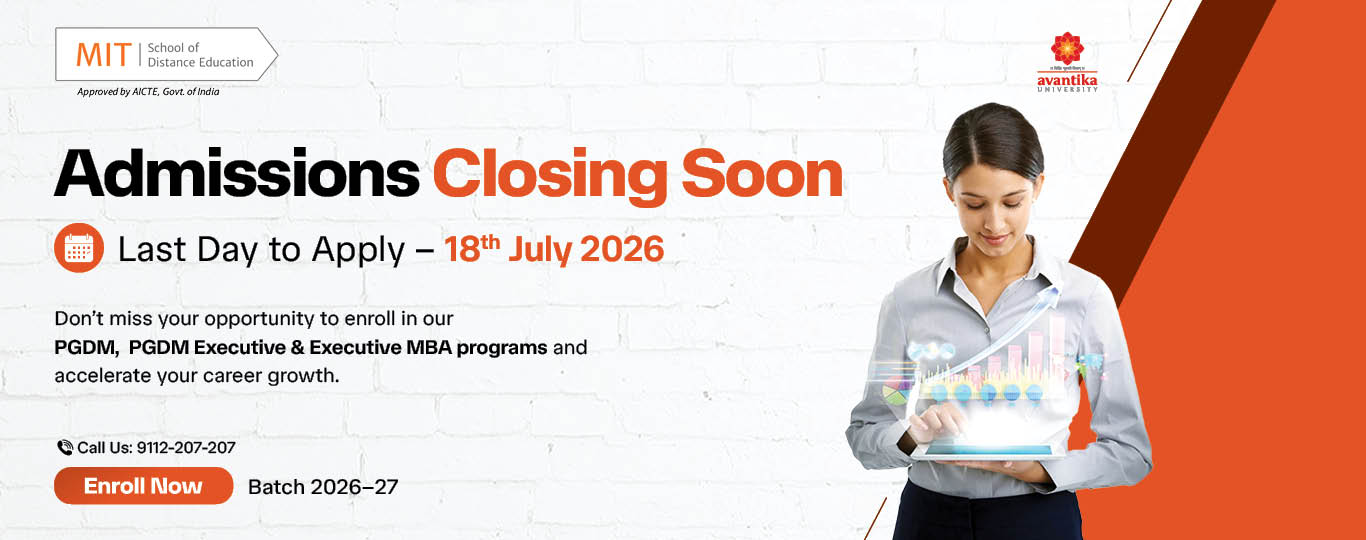
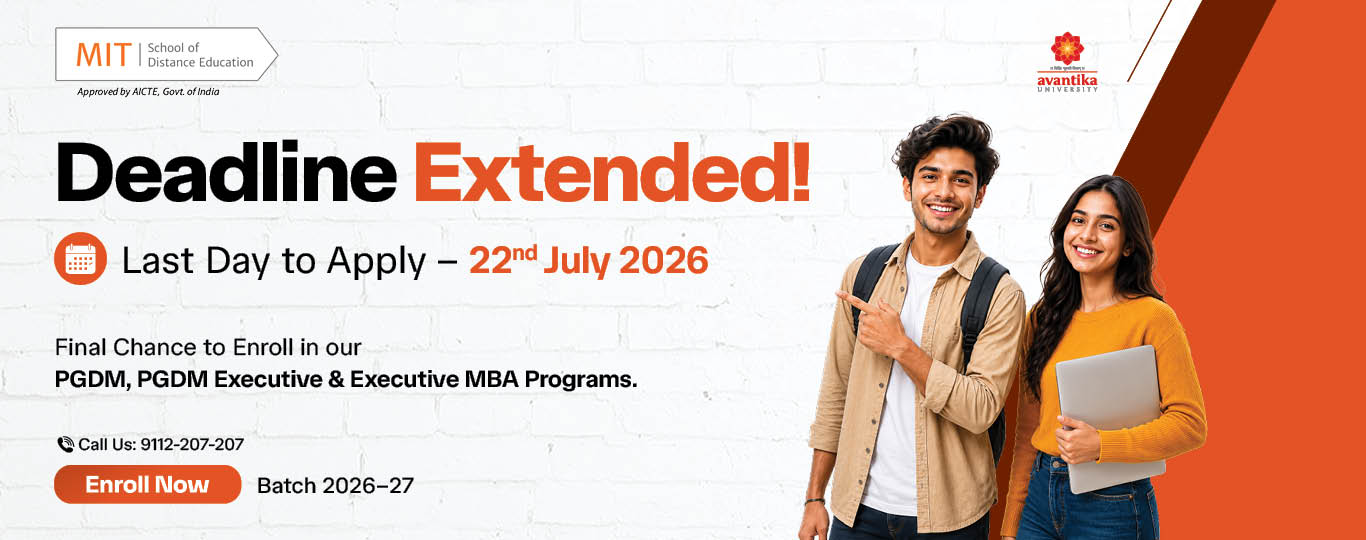
change in last date

diff --git a/announcementUpdate.php b/announcementUpdate.php
@@ -2,7 +2,7 @@
     <div class="container">
         <div class="row">
             <div class="ann-box">
-                <p style="font-size: 15.5px;">Last Day Left! Apply before <span class="blinklastdate"> 18th July 2026
+                <p style="font-size: 15.5px;">Last Day Left! Apply before <span class="blinklastdate"> 22nd July 2026
                     </span> to enroll in the final batch. Call now:<a href="tel:9112207207"
                         style="text-decoration: none; padding: 0px !important;"> 9112-207-207</a> <a href="roi" style="color: white; font-weight: 400;">Calculate Your Career ROI in 30 Seconds →</a>
                     </p>
